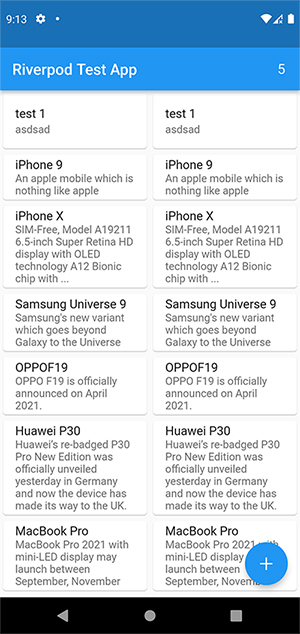
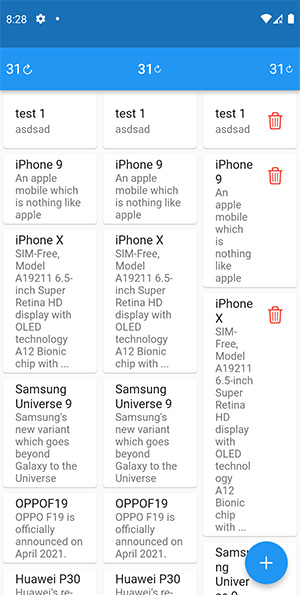
changes

diff --git a/lib/main.dart b/lib/main.dart
@@ -30,24 +30,47 @@ class HomeScreen extends ConsumerWidget {
   Widget build(BuildContext context, WidgetRef ref) {
     final products = ref.watch(futureProductProvider);
     final products2 = ref.watch(productProvider);
+    final products3 = ref.watch(productNotifierProvider);
     return Scaffold(
       appBar: AppBar(
         centerTitle: true,
         leading: Consumer(
             builder: (context, ref, child) {
               return IconButton(
-                onPressed: () => false,
-                icon: Text(ref.watch(counterProvider).toString(),style: const TextStyle(fontSize: 18),)
+                onPressed: () => ref.refresh(futureProductProvider),
+                icon: Row(
+                  children: [
+                    Text(ref.watch(counterProvider).toString(),style: const TextStyle(fontSize: 18),),
+                    const Icon(CupertinoIcons.refresh,size: 15,)
+                  ],
+                )
               );
             },
           ),
-        title: const Text("Riverpod Test App"),
+        title: Consumer(
+            builder: (context, ref, child) {
+              return IconButton(
+                onPressed: () => ref.refresh(productProvider),
+                icon: Row(
+                  children: [
+                    Text(ref.watch(productProvider).length.toString(),style: const TextStyle(fontSize: 18),),
+                    const Icon(CupertinoIcons.refresh,size: 11,)
+                  ],
+                )
+              );
+            },
+          ),
         actions: [
           Consumer(
             builder: (context, ref, child) {
               return IconButton(
-                onPressed: () => false,
-                icon: Text(ref.watch(productProvider).length.toString(),style: const TextStyle(fontSize: 18),)
+                onPressed: () => ref.refresh(productNotifierProvider),
+                icon: Row(
+                  children: [
+                    Text(ref.watch(productNotifierProvider).length.toString(),style: const TextStyle(fontSize: 18),),
+                    const Icon(CupertinoIcons.refresh,size: 11,)
+                  ],
+                )
               );
             },
           )
@@ -57,11 +80,7 @@ class HomeScreen extends ConsumerWidget {
         builder: (context, ref, child) {
           return FloatingActionButton(
            onPressed: (){
-              final oldData = ref.read(productProvider);
-              ref.read(productProvider.notifier).state = [
-                ProductsModel(id: 1, title: "test 1", description: "asdsad",thumbnail: "asda", stock: 1),
-                ...oldData
-              ];
+              ref.read(productNotifierProvider.notifier).addProduct(ProductsModel(id: 1, title: "test 1", description: "asdsad",thumbnail: "asda", stock: 1));
             },
           child: const Icon(CupertinoIcons.add),
         );
@@ -100,6 +119,33 @@ class HomeScreen extends ConsumerWidget {
                   child: ListTile(
                     title: Text(products2[index].title),
                     subtitle: Text(products2[index].description),
+                  ),
+                );
+              },
+            ),
+          ),
+          Expanded(
+            flex: 1,
+            child: ListView.builder(
+              itemCount: products3.length,
+              itemBuilder: (context, index) {
+                return Card(
+                  child: ListTile(
+                    title: Text(products3[index].title),
+                    subtitle: Text(products3[index].description),
+                    trailing: GestureDetector(
+                      onTap: (){
+                        // API DELETE ACTIONS
+                        // if true
+                        ref.read(productNotifierProvider.notifier).deleteProduct(products3[index]);
+
+                        // for refresh future provider
+                        //ref.refresh(futureProductProvider);
+                        //ref.refresh(productProvider);
+                        //ref.refresh(productNotifierProvider);
+                      },
+                      child: const Icon(CupertinoIcons.delete,color: Colors.red,),
+                    ),
                   ),
                 );
               },

diff --git a/lib/providers/basic.dart b/lib/providers/basic.dart
@@ -4,6 +4,7 @@ import 'package:providers/services/api_service.dart';
 
 
 // Static data in provider
+// not using in this project
 final basicProvider = Provider<int>((ref) {
   return 5;
 });
@@ -22,6 +23,7 @@ final futureProductProvider = FutureProvider<List<ProductsModel>>((ref) async {
   }
   //write data at other provider
   ref.read(productProvider.notifier).state = products;
+  ref.read(productNotifierProvider.notifier).loadBulk(products);
   ref.read(counterProvider.notifier).state = products.length;
   return products;
 });
@@ -32,3 +34,29 @@ final futureProductProvider = FutureProvider<List<ProductsModel>>((ref) async {
 final productProvider = StateProvider<List<ProductsModel>>((ref) {
   return [];
 });
+
+
+
+// Local and cache provider with notifier
+
+final productNotifierProvider = StateNotifierProvider.autoDispose<ProductNotifier,List<ProductsModel>>((ref) {
+  return ProductNotifier([]);
+});
+
+
+class ProductNotifier extends StateNotifier<List<ProductsModel>>{
+  ProductNotifier(List<ProductsModel> state) : super(state);
+
+  void loadBulk(List<ProductsModel> bulk){
+    state = bulk;
+  }
+
+  void addProduct(ProductsModel product){
+    state = [product,...state];
+  }
+
+  void deleteProduct(ProductsModel product){
+    state = state.where((element) => element.id != product.id).toList();
+  }
+
+}
